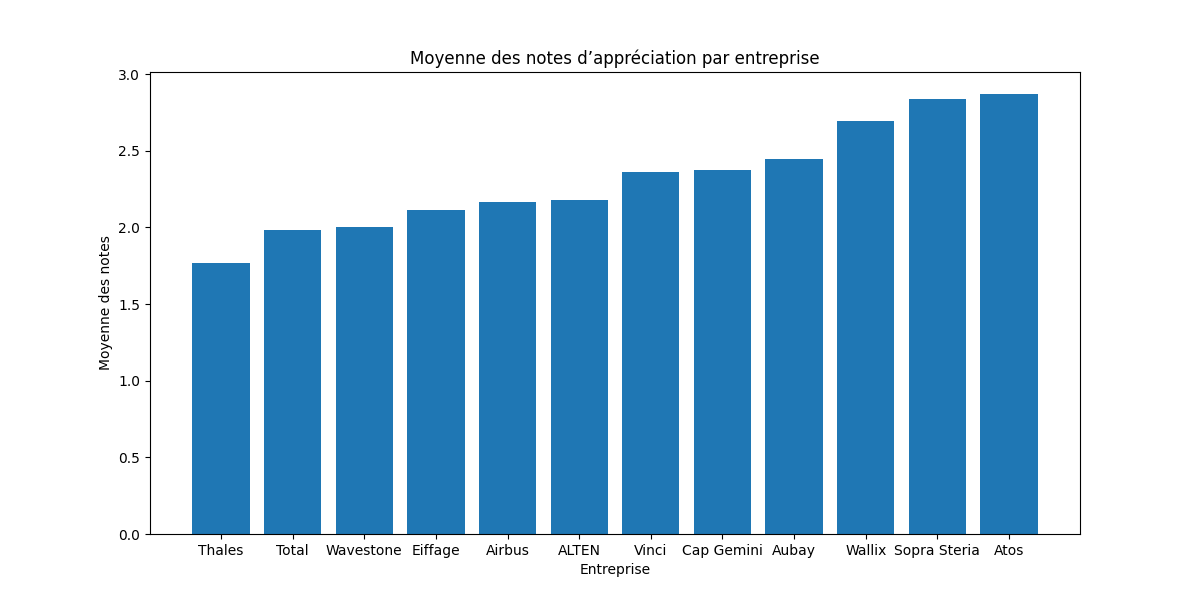
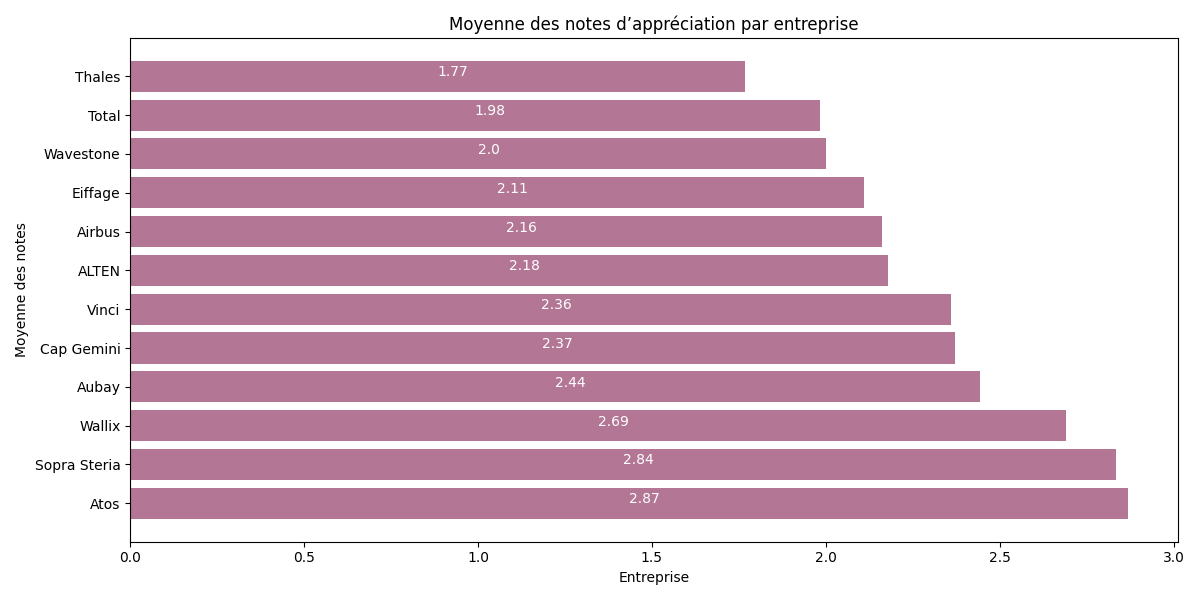
dashboard part2

diff --git a/Projet/templates/top_enterprise.html b/Projet/templates/top_enterprise.html
@@ -2,5 +2,71 @@
 
 {% block content %}
     <h1>{% block title %} Dashboard {% endblock %}</h1>
+    <div id="top" style="margin-top: 20px;margin-left: 350px;">
+        <label>Entreprise la plus visitée : {{nom}}</label>
+        <label>, visité par {{nb_visits}} élèves</label>
+    </div>
+    <div id="graph">
+        <img src={{img}} style="display:flex;margin: auto;">
+    </div>
+    <div class="btn">
+        <a class="btn-download" href={{img}} download="{{img}}">Télécharger
+            <img src="/static/img/icons8-télécharger-30.png">
+        </a>
+        <a class="btn-print" href="javascript:window.print()">Imprimer
+            <img src="/static/img/icons8-impression-50.png">
+        </a>
+        <a class="btn-save" href="javascript:window.print()">Sauvegarder
+            <img src="/static/img/icons8-sauvegarder-50.png">
+        </a>
+    </div>
+    <style>
+        @media print {
+            h1 {
+                display: none;
+            }
+            .btn {
+                display: none;
+            }
+            .qrcode {
 
+                display: block;
+            }
+        }
+        a{
+
+            text-decoration: none;
+            color:white;
+        }
+        .btn{
+            margin-top: 20px;
+        }
+        .btn-download{
+            margin-left: 180px;
+            border-radius: 5px;
+            font-size: 30px;
+            width: fit-content;
+            color: white;
+            padding: 15px;
+            background-color: rgb(186,0,0);
+        }
+        .btn-print{
+            margin-left: 20px;
+            border-radius: 5px;
+            font-size: 30px;
+            width: fit-content;
+            color: white;
+            padding: 15px;
+            background-color: rgb(186,0,0);
+        }
+        .btn-save{
+            margin-left: 20px;
+            border-radius: 5px;
+            font-size: 30px;
+            width: fit-content;
+            color: white;
+            padding: 15px;
+            background-color: rgb(186,0,0);
+        }
+    </style>
 {% endblock %}

diff --git a/Projet/templates/all_visits.html b/Projet/templates/all_visits.html
@@ -2,5 +2,70 @@
 
 {% block content %}
     <h1>{% block title %} Dashboard {% endblock %}</h1>
+    <div style="margin-top: 20px; margin-left: 420px;">
+        <label>Tous les visiteurs du stand de {{entreprise}} :</label>
+    </div>
+    <div id="graph" style="margin-top: 20px;">
+        <img src={{img}} style="display:flex;margin: auto;">
+    </div>
+    <div class="btn">
+        <a class="btn-download" href={{img}} download="{{img}}">Télécharger
+            <img src="/static/img/icons8-télécharger-30.png">
+        </a>
+        <a class="btn-print" href="javascript:window.print()">Imprimer
+            <img src="/static/img/icons8-impression-50.png">
+        </a>
+        <a class="btn-save" href="javascript:window.print()">Sauvegarder
+            <img src="/static/img/icons8-sauvegarder-50.png">
+        </a>
+    </div>
+    <style>
+        @media print {
+            h1 {
+                display: none;
+            }
+            .btn {
+                display: none;
+            }
+            .qrcode {
 
+                display: block;
+            }
+        }
+        a{
+
+            text-decoration: none;
+            color:white;
+        }
+        .btn{
+            margin-top: 20px;
+        }
+        .btn-download{
+            margin-left: 180px;
+            border-radius: 5px;
+            font-size: 30px;
+            width: fit-content;
+            color: white;
+            padding: 15px;
+            background-color: rgb(186,0,0);
+        }
+        .btn-print{
+            margin-left: 20px;
+            border-radius: 5px;
+            font-size: 30px;
+            width: fit-content;
+            color: white;
+            padding: 15px;
+            background-color: rgb(186,0,0);
+        }
+        .btn-save{
+            margin-left: 20px;
+            border-radius: 5px;
+            font-size: 30px;
+            width: fit-content;
+            color: white;
+            padding: 15px;
+            background-color: rgb(186,0,0);
+        }
+    </style>
 {% endblock %}

diff --git a/Projet/templates/dashboard.html b/Projet/templates/dashboard.html
@@ -7,8 +7,11 @@
             <label for="desc">Choisissez la vue du dashboard parmi celles proposées ci-dessous :</label>
         </div>
         <div class="form-group" style="margin-top:20px;margin-left: 300px;">
-            <input type="radio" value="prc_freq" name="dashboard">POURCENTAGE DE FRÉQUENTATION PAR ENTREPRISE<br>
-            <input type="radio" value="average" name="dashboard">MOYENNE DES APPRÉCIATIONS PAR ENTREPRISE<br>
+            <input type="radio" value="prc_freq" style="margin-top:20px;" name="dashboard" checked>POURCENTAGE DE FRÉQUENTATION PAR ENTREPRISE<br>
+            <input type="radio" value="average" style="margin-top:20px;" name="dashboard">MOYENNE DES APPRÉCIATIONS PAR ENTREPRISE<br>
+            <input type="radio" value="top_enterprise" style="margin-top:20px;" name="dashboard">ENTREPRISES LES PLUS VISITÉES<br>
+            <input type="radio" value="all_visits" style="margin-top:20px;" name="dashboard">TOUTES LES VISITES CHEZ : 
+            <input type="text" value="{{ request.form['entreprise'] }}" name="entreprise" placeholder="Nom de l'entreprise">
         </div>
         <button type="submit" class="btn btn-primary" style="margin-top:20px;margin-left: 500px;">Afficher</button>
     </form>

diff --git a/Projet/templates/base.html b/Projet/templates/base.html
@@ -23,7 +23,7 @@
         <button class="navbar-toggler" type="button" data-toggle="collapse" data-target="#navbarNav" aria-controls="navbarNav" aria-expanded="false" aria-label="Toggle navigation">
             <span class="navbar-toggler-icon"></span>
         </button>
-        <img class="logo-epf" src="/static/img/logo_epf.png" width="5%" height="5%" style="margin-left:930px">
+        <img class="logo-epf" src="/static/img/logo_epf.png" width="5%" height="5%" style="margin-left:120px">
     </nav>
     
     <div class="container">

diff --git a/Projet/script.py b/Projet/script.py
@@ -6,6 +6,7 @@ from qrcode.image.styles.moduledrawers.pil import RoundedModuleDrawer
 from qrcode.image.styles.colormasks import RadialGradiantColorMask
 import pandas as pd
 import matplotlib.pyplot as plt
+import dataframe_image as dfi
 
 def QRCode_generator(name):
     qr = qrcode.QRCode(
@@ -61,7 +62,9 @@ def printAllStudents(db_file, name):
     df_student = pd.DataFrame(time_start, index=None, columns=['Heure de début'])
     df_student.insert(1, 'Heure de fin', time_end, True)
     df_student.insert(2, "Nom de l'élève", students, True)
-    return df_student
+    dfi.export(df_student, './static/img/all_visits.png', max_rows=-1)
+    img = './static/img/all_visits.png'
+    return img
 
 def printTopEnteprise(db_file):
     db = open(db_file, "r")
@@ -77,9 +80,21 @@ def printTopEnteprise(db_file):
         nb_visits.append(nb_students)
     df_top_enterprise = pd.DataFrame(all_enterprise, index=None, columns=['Entreprise'])
     df_top_enterprise.insert(1, 'Nombre de visites', nb_visits)
-    df_top_enterprise = df_top_enterprise.sort_values(by='Nombre de visites', ascending=False)
+    df_top_enterprise = df_top_enterprise.sort_values(by='Nombre de visites', ascending=True)
     df_top_enterprise = df_top_enterprise.reset_index(drop=True)
-    return df_top_enterprise
+    top = df_top_enterprise.iloc[(len(df_top_enterprise['Entreprise']) - 1):len(df_top_enterprise['Entreprise']),:]
+    plt.switch_backend('Agg') 
+    plt.figure(figsize=(8,6))
+    plt.barh(df_top_enterprise['Entreprise'], df_top_enterprise['Nombre de visites'], color="#b37695")
+    plt.title("Nombre de visites par stand entreprise")
+    plt.xlabel("Entreprise")
+    plt.ylabel("Nombre de visites")
+    for i in range(len(df_top_enterprise['Entreprise'])):
+        plt.text(df_top_enterprise['Nombre de visites'][i]/2, i, round(df_top_enterprise['Nombre de visites'][i], 2), color="white")
+    plt.tight_layout()
+    img = "./static/img/top_enterprise.png"
+    plt.savefig(img)
+    return img, top
 
 def printAverage(db_file):
     db = open(db_file, "r")
@@ -97,14 +112,17 @@ def printAverage(db_file):
         average.append(note/nb_students)
     df_average = pd.DataFrame(all_enterprise, index=None, columns=['Entreprise'])
     df_average.insert(1, 'Moyenne appréciation', average, True)
-    df_average = df_average.sort_values(by='Moyenne appréciation')
+    df_average = df_average.sort_values(by='Moyenne appréciation', ascending=False)
     df_average = df_average.reset_index(drop=True)
     plt.switch_backend('Agg') 
     plt.figure(figsize=(12,6))
-    plt.bar(df_average['Entreprise'], df_average['Moyenne appréciation'])
+    plt.barh(df_average['Entreprise'], df_average['Moyenne appréciation'], color="#b37695")
     plt.title("Moyenne des notes d’appréciation par entreprise")
     plt.xlabel("Entreprise")
     plt.ylabel("Moyenne des notes")
+    plt.tight_layout()
+    for i in range(len(df_average['Entreprise'])):
+        plt.text(df_average['Moyenne appréciation'][i]/2, i, round(df_average['Moyenne appréciation'][i], 2), color="white")
     img = "./static/img/average_by_enterprise.png"
     plt.savefig(img)
     return img
@@ -129,10 +147,13 @@ def printPrcFreq(db_file):
     df_prc_freq = df_prc_freq.reset_index(drop=True)
     plt.switch_backend('Agg') 
     plt.figure(figsize=(12,6))
-    plt.barh(df_prc_freq['Entreprise'], df_prc_freq['Pourcentage de fréquentation'])
+    plt.bar(df_prc_freq['Entreprise'], df_prc_freq['Pourcentage de fréquentation'], color="#b37695")
     plt.title("Pourcentage de fréquentation par entreprise")
     plt.xlabel("Entreprise")
     plt.ylabel("Pourcentage de fréquentation")
+    plt.tight_layout()
+    for i in range(len(df_prc_freq['Entreprise'])):
+        plt.text(i, df_prc_freq['Pourcentage de fréquentation'][i]/2, str(round(df_prc_freq['Pourcentage de fréquentation'][i], 2)) + "%", ha='center', color="white")
     img = "./static/img/prcfreq_by_enterprise.png"
     plt.savefig(img)
     return img

diff --git a/Projet/web-page.py b/Projet/web-page.py
@@ -1,5 +1,6 @@
 from flask import Flask, render_template, request, url_for, flash, redirect
 from script import QRCode_generator, QRCode_generator_logo, printAllStudents, printAverage, printPrcFreq, printTopEnteprise
+import pandas as pd
 
 app = Flask(__name__)
 app.config['SECRET_KEY'] = 'D}hC~9a,KK2Jx_#5V=)L-4VGq8.rgpcz5/h8B?4J36T36ut'
@@ -40,13 +41,37 @@ def dashboard():
     if excel_file == "":
         flash('Veuillez ajouter une base de données pour visualiser le dashboard.', 'warning')
     if request.method == "POST":
-        dashboard_to_display = request.form['dashboard']
-        if dashboard_to_display=="prc_freq":
-            img = printPrcFreq(db_file)
-            return render_template('prc_freq.html', img=img)
-        elif dashboard_to_display=="average":
-            img = printAverage(db_file)
-            return render_template('average.html', img=img)
+        if request.form['dashboard']:
+            dashboard_to_display = request.form['dashboard']
+            if dashboard_to_display=="prc_freq":
+                img = printPrcFreq(db_file)
+                return render_template('prc_freq.html', img=img)
+            elif dashboard_to_display=="average":
+                img = printAverage(db_file)
+                return render_template('average.html', img=img)
+            elif dashboard_to_display=="top_enterprise":
+                img, top = printTopEnteprise(db_file)
+                top = top.reset_index(drop=True)
+                nom = top['Entreprise'][0]
+                nb_visits = top['Nombre de visites'][0]
+                return render_template('top_enterprise.html', img=img, nom=nom, nb_visits=nb_visits)
+            elif dashboard_to_display=="all_visits":
+                entreprise = request.form['entreprise']
+                df_survey = pd.read_excel(excel_file)
+                all_enterprise = list(set(df_survey["Nom de l'entreprise"]))
+                if entreprise=="":
+                    flash('Veuillez choisir une entreprise.', 'warning')
+                    return render_template('dashboard.html')
+                else:
+                    if entreprise not in all_enterprise:
+                        flash("Veuillez entrer le nom d'une entreprise existante.", 'warning')
+                        return render_template('dashboard.html')
+                    else:
+                        img = printAllStudents(db_file, entreprise)
+                        return render_template('all_visits.html', img=img, entreprise=entreprise)
+        else:
+            flash('Veuillez sélectionner une des vues du dashboard proposées.', 'warning')
+            return render_template('dashboard.html')
     return render_template('dashboard.html')
 
 @app.route('/prc_freq')
@@ -56,3 +81,11 @@ def prc_freq():
 @app.route('/average')
 def average():
     return render_template('average.html')
+
+@app.route('/all_visits')
+def all_visits():
+    return render_template('all_visits.html')
+
+@app.route('/top_enterprise')
+def top_enterprise():
+    return render_template('top_enterprise.html')
